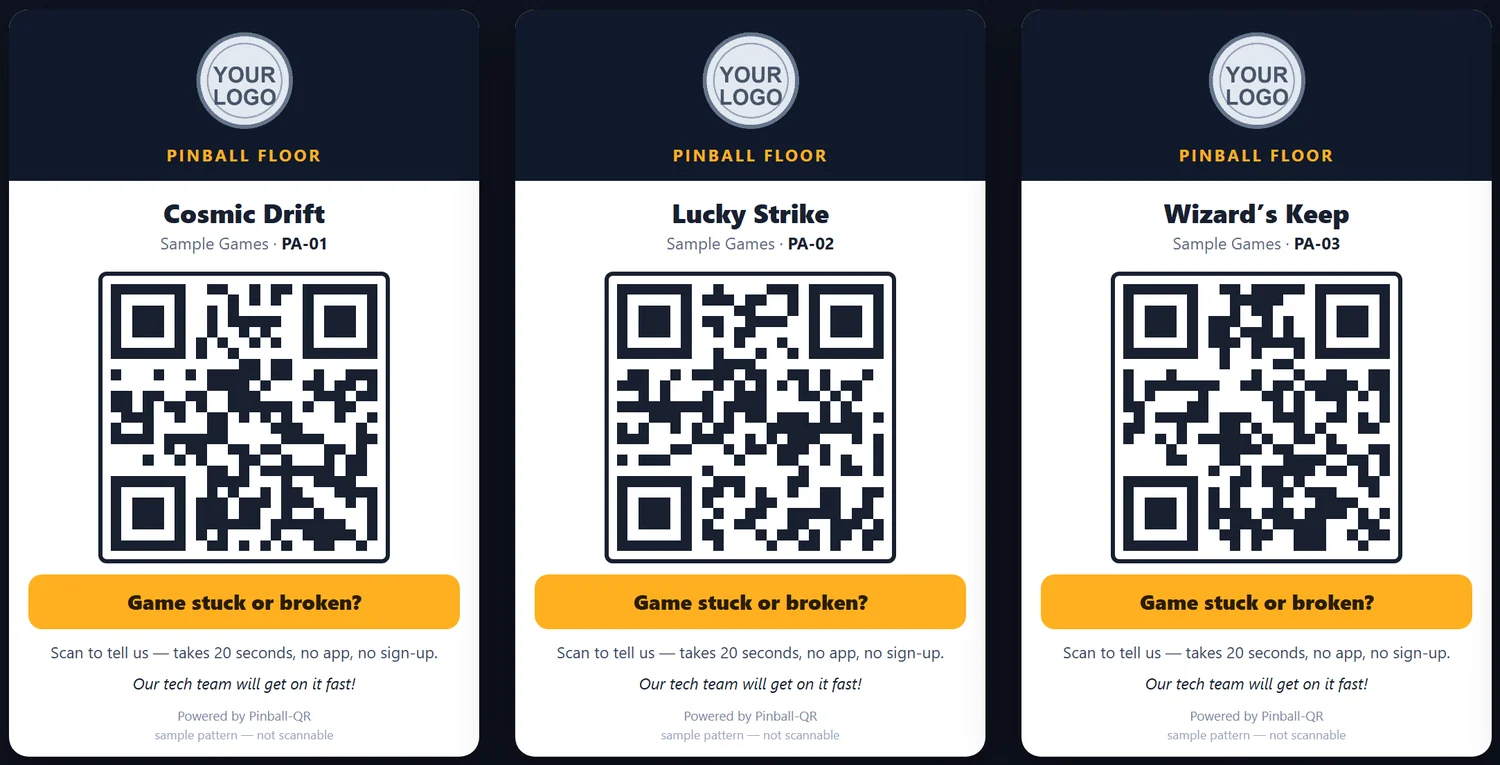
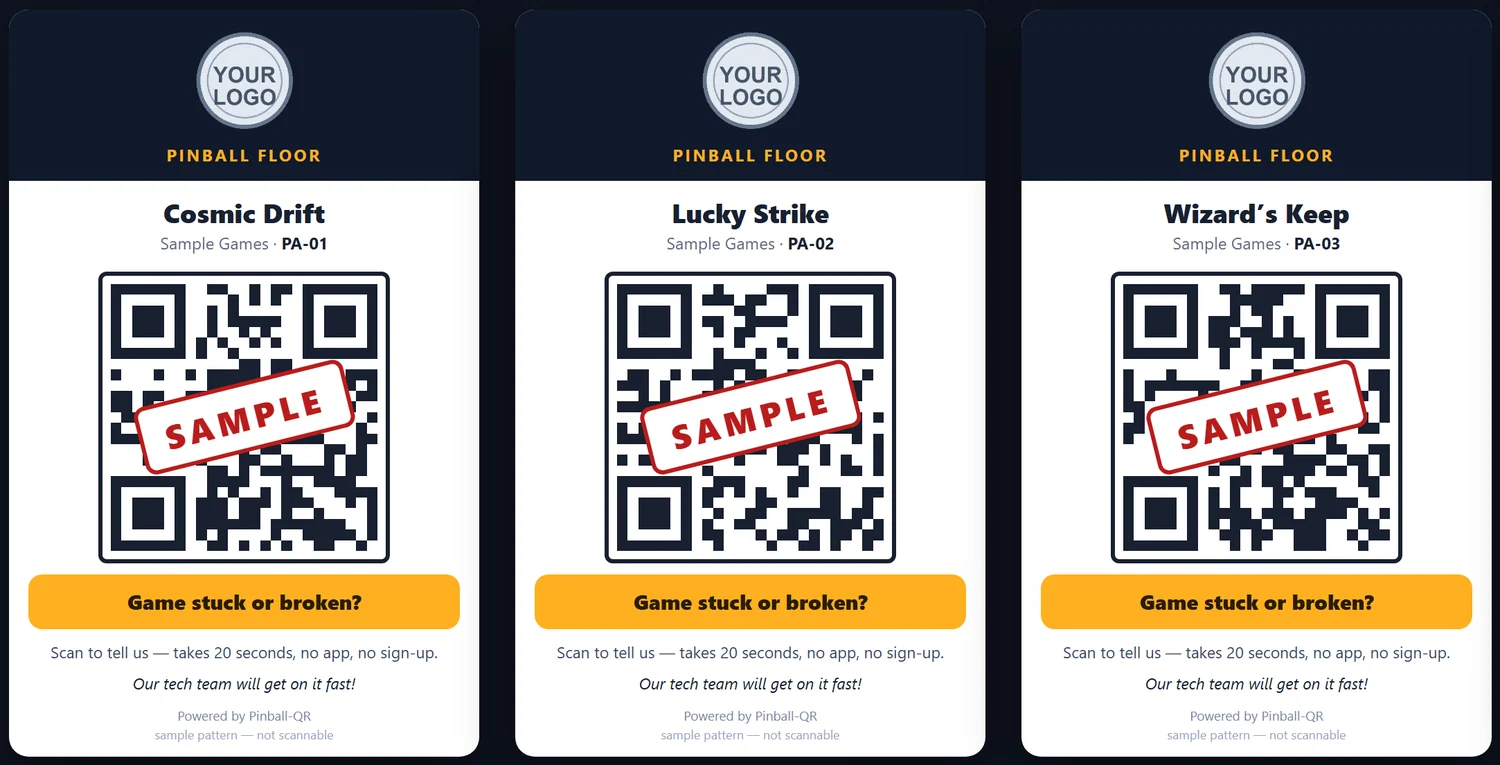
v2.41.3: Pinball-QR page: pictures moved up, page tightened, sample QR codes stamped
Pictures (dashboard, ticket page, card, promotions) now sit directly under the numbers instead of
near the bottom. Eight content sections became six: "Who it's for" and "Benefits" removed (they
repeated the problem cards and the steps) and folded into a four-step "How it works".
The sample QR codes on the card picture carry a red SAMPLE stamp; a QR decoder reads nothing from
the published image (a control code decodes). Unused report/status images removed.
Not pushed.

Changed region(s): [[0.7667, 0.451, 0.92, 0.6314], [0.4293, 0.451, 0.5827, 0.6314], [0.092, 0.451, 0.2453, 0.6314]]

diff --git a/pinball-qr.html b/pinball-qr.html
@@ -126,7 +126,7 @@
   </header>
 
   <main class="pp-main">
-    <nav class="pp-subnav" aria-label="Pinball-QR page sections"><div class="container pp-subnav-in"><div class="pp-sw"><button class="pp-sw-btn" type="button" aria-expanded="false" aria-controls="pp-sw-menu" aria-label="Switch product (current: Pinball-QR)"><img src="/images/products/pinball-qr-icon.svg" alt="" width="28" height="28"><span>Pinball-QR</span><svg class="pp-sw-chev" viewBox="0 0 12 12" fill="none" stroke="currentColor" stroke-width="1.8" aria-hidden="true"><path d="m3 4.5 3 3 3-3"/></svg></button><div class="pp-sw-menu" id="pp-sw-menu"><a href="/concreteiq.html"><img src="/images/products/concreteiq-icon.png" alt="" width="28" height="28"><span>ConcreteIQ</span><span class="sh-st live">Live beta</span></a><a href="/brickture.html"><img src="/images/products/brickture-icon.png" alt="" width="28" height="28"><span>Brickture</span><span class="sh-st beta">Beta</span></a><a href="/hoof-harted.html"><img src="/images/products/hoof-harted-icon.png" alt="" width="28" height="28"><span>Hoof Harted</span><span class="sh-st live">Live</span></a><a href="/true-record.html"><img src="/images/products/true-record-icon.png" alt="" width="28" height="28"><span>True Record</span><span class="sh-st live">Live</span></a><a href="/ann-elise.html"><img src="/images/products/ann-elise-icon.png" alt="" width="28" height="28"><span>Ann Elise</span><span class="sh-st live">Live</span></a><a href="/pinball-qr.html" aria-current="page"><img src="/images/products/pinball-qr-icon.svg" alt="" width="28" height="28"><span>Pinball-QR</span><span class="sh-st live">Live beta</span></a><a href="/meta-ray-ban-display.html"><span class="pp-sw-glyph" aria-hidden="true"><svg viewBox="0 0 220 90" fill="none" stroke="#e2e8f0" stroke-width="12"><rect x="20" y="24" width="76" height="52" rx="18"/><rect x="124" y="24" width="76" height="52" rx="18"/></svg></span><span>Meta Ray-Ban Display</span><span class="sh-st next">Upcoming</span></a><a class="pp-sw-all" href="/products.html">All products &rarr;</a></div></div><div class="pp-subnav-links"><a href="#overview">Overview</a><a href="#problem">The problem</a><a href="#audience">Who it&rsquo;s for</a><a href="#how">How it works</a><a href="#screens">See it</a><a href="#roadmap">Roadmap</a><a href="#proof">Proof</a></div><a class="pp-subnav-cta" href="/contact.html?topic=build#contact-form">Talk to us &rarr;</a></div></nav>
+    <nav class="pp-subnav" aria-label="Pinball-QR page sections"><div class="container pp-subnav-in"><div class="pp-sw"><button class="pp-sw-btn" type="button" aria-expanded="false" aria-controls="pp-sw-menu" aria-label="Switch product (current: Pinball-QR)"><img src="/images/products/pinball-qr-icon.svg" alt="" width="28" height="28"><span>Pinball-QR</span><svg class="pp-sw-chev" viewBox="0 0 12 12" fill="none" stroke="currentColor" stroke-width="1.8" aria-hidden="true"><path d="m3 4.5 3 3 3-3"/></svg></button><div class="pp-sw-menu" id="pp-sw-menu"><a href="/concreteiq.html"><img src="/images/products/concreteiq-icon.png" alt="" width="28" height="28"><span>ConcreteIQ</span><span class="sh-st live">Live beta</span></a><a href="/brickture.html"><img src="/images/products/brickture-icon.png" alt="" width="28" height="28"><span>Brickture</span><span class="sh-st beta">Beta</span></a><a href="/hoof-harted.html"><img src="/images/products/hoof-harted-icon.png" alt="" width="28" height="28"><span>Hoof Harted</span><span class="sh-st live">Live</span></a><a href="/true-record.html"><img src="/images/products/true-record-icon.png" alt="" width="28" height="28"><span>True Record</span><span class="sh-st live">Live</span></a><a href="/ann-elise.html"><img src="/images/products/ann-elise-icon.png" alt="" width="28" height="28"><span>Ann Elise</span><span class="sh-st live">Live</span></a><a href="/pinball-qr.html" aria-current="page"><img src="/images/products/pinball-qr-icon.svg" alt="" width="28" height="28"><span>Pinball-QR</span><span class="sh-st live">Live beta</span></a><a href="/meta-ray-ban-display.html"><span class="pp-sw-glyph" aria-hidden="true"><svg viewBox="0 0 220 90" fill="none" stroke="#e2e8f0" stroke-width="12"><rect x="20" y="24" width="76" height="52" rx="18"/><rect x="124" y="24" width="76" height="52" rx="18"/></svg></span><span>Meta Ray-Ban Display</span><span class="sh-st next">Upcoming</span></a><a class="pp-sw-all" href="/products.html">All products &rarr;</a></div></div><div class="pp-subnav-links"><a href="#overview">Overview</a><a href="#screens">See it</a><a href="#problem">The problem</a><a href="#how">How it works</a><a href="#roadmap">Roadmap</a><a href="#proof">Proof</a></div><a class="pp-subnav-cta" href="/contact.html?topic=build#contact-form">Talk to us &rarr;</a></div></nav>
     <section class="pp-hero" id="overview">
       <div class="container pp-hero-grid">
         <div>
@@ -134,9 +134,9 @@
           <div class="pp-id"><img class="pp-icon" src="/images/products/pinball-qr-icon.svg" alt="Pinball-QR icon" width="256" height="256"><span class="status-pill is-live">Live beta &middot; Phase 1</span><a class="pp-ind pp-ind-ent" href="/industries.html#entertainment">Entertainment</a></div>
           <h1>A machine breaks. One scan tells the venue.</h1>
           <p class="pp-tagline">QR-code problem reporting for pinball and arcade venues.</p>
-          <p class="pp-lead">Put a QR card on each machine. A player scans it, taps what&rsquo;s wrong, and the venue gets an email with a one-tap Mark fixed link. No app. No account. When it&rsquo;s fixed, the player who reported it can be told.</p>
+          <p class="pp-lead">Put a QR card on each machine. A player scans it, taps what&rsquo;s wrong, and the venue gets an email with a one-tap Mark fixed link. No app. No account.</p>
           <div class="btn-group"><a href="/contact.html?topic=build#contact-form" class="btn btn-primary btn-lg">Talk to us about your venue &rarr;</a><a href="#roadmap" class="btn btn-ghost btn-lg">Where it&rsquo;s headed &darr;</a></div>
-          <p class="pp-note">Built for pinball and arcade venues throughout the US. Live beta since October 9, 2026. Phase 1 of three.</p>
+          <p class="pp-note">Built for pinball and arcade venues throughout the US. Live beta since October 9, 2026.</p>
         </div>
         <div class="pp-visual"><img class="pp-phone" src="/images/products/pinball-qr-hero-report.webp" alt="The Pinball-QR player report screen with six problem choices" width="560" height="1005"><img class="pp-phone" src="/images/products/pinball-qr-hero-status.webp" alt="The Pinball-QR public status page listing which machines are working" width="560" height="1005"></div>
       </div>
@@ -144,49 +144,27 @@
 
     <div class="container"><div class="pp-stats reveal"><div><b>57</b><span>Problem reports from players since the beta went live on October 9</span></div><div><b>54 of 57</b><span>Fixed. The other 3 are waiting on parts</span></div><div><b>~2 hrs</b><span>A typical repair, with the system in place</span></div><div><b>24</b><span>Machines with QR cards, up from 7 on day one</span></div></div></div>
 
-    <section class="pp-sec" id="problem">
+    <section class="pp-sec" id="screens">
+      <div class="container">
+        <p class="pp-sub pq-sub"><span class="pp-kicker">See it</span> Design mockups with sample content: the venue, machines, people and numbers are made up. Phase 1 is live today; the dashboard and promotions are designs for Phases 2 and 3, which are in progress.</p>
+        <div class="pq-gallery pq-bento"><figure class="reveal pq-dash"><img src="/images/products/pinball-qr-dashboard.webp" alt="The staff dashboard: what needs attention now, in-progress tickets and a tile for every machine" width="1500" height="971" loading="lazy"><figcaption><b>The staff dashboard <span class="status-pill is-dev">Phase 2 &middot; in progress</span></b>What needs attention now, who has picked it up, and which machines are fine.</figcaption></figure><figure class="reveal pq-tick"><img src="/images/products/pinball-qr-ticket.webp" alt="The player's report page with a progress timeline" width="640" height="1243" loading="lazy"><figcaption><b>Follow the report <span class="status-pill is-live">Phase 1</span></b>A player can check on a report from a link. The technician steps shown are part of Phase 2.</figcaption></figure><figure class="reveal pq-card"><img src="/images/products/pinball-qr-card.webp" alt="Three coin-door cards, each with a sample QR code stamped SAMPLE, the machine name and a Game stuck or broken prompt" width="1500" height="765" loading="lazy"><figcaption><b>A card on every machine <span class="status-pill is-live">Phase 1</span></b>The venue&rsquo;s logo, the machine&rsquo;s name and a QR code. The codes shown are samples and do not scan.</figcaption></figure><figure class="reveal pq-promo"><img src="/images/products/pinball-qr-promotions.webp" alt="The promotions editor with a phone preview of an offer shown after a report" width="1500" height="845" loading="lazy"><figcaption><b>The venue&rsquo;s own promotions <span class="status-pill is-dev">Phase 3 &middot; in progress</span></b>Offers the venue sets, shown after a report. Never in the report form; no outside ads.</figcaption></figure></div>
+      </div>
+    </section>
+
+    <section class="pp-sec alt" id="problem">
       <div class="container">
         <span class="pp-kicker">The problem</span>
         <h2>Pinball machines break quietly</h2>
-        <p class="pp-sub">Pinball machines are hard to diagnose by looking, which makes communicating a problem a big one for the industry.</p>
-        <div class="pp-grid c3"><div class="pp-card tile reveal"><div class="pp-ico"><svg viewBox="0 0 24 24" fill="none" stroke="currentColor" stroke-width="2" stroke-linecap="round" stroke-linejoin="round"><path d="M2 12s4-7 10-7 10 7 10 7-4 7-10 7S2 12 2 12z"/><circle cx="12" cy="12" r="3"/><path d="M3 3l18 18"/></svg></div><h3>It isn&rsquo;t obvious</h3><p>You often can&rsquo;t tell a pop-up target is dead by looking at the machine. You find out by playing, which can take hours, or when someone who knows pinball tells you.</p></div><div class="pp-card tile reveal"><div class="pp-ico"><svg viewBox="0 0 24 24" fill="none" stroke="currentColor" stroke-width="2" stroke-linecap="round" stroke-linejoin="round"><circle cx="12" cy="8" r="4"/><path d="M4 21c1-4 4-6 8-6s7 2 8 6"/></svg></div><h3>Most players can&rsquo;t tell</h3><p>Many players are casual. They may not realise a machine has a problem at all, and the ones who do have no standard way to say so.</p></div><div class="pp-card tile reveal"><div class="pp-ico"><svg viewBox="0 0 24 24" fill="none" stroke="currentColor" stroke-width="2" stroke-linecap="round" stroke-linejoin="round"><circle cx="12" cy="12" r="9"/><path d="M12 7v5l3 2"/></svg></div><h3>News travels slowly</h3><p>At the venue where we started, customers had no standard way to report a problem. Reports came in however they could, and it could take weeks or even months for the right person to find out.</p></div></div>
+        <p class="pp-sub">Pinball machines are hard to diagnose by looking, so communicating a problem is a big one for the industry. Pinball-QR is built for the owners, technicians and floor staff who fix machines, and the players who find the problems.</p>
+        <div class="pp-grid c3"><div class="pp-card tile reveal"><div class="pp-ico"><svg viewBox="0 0 24 24" fill="none" stroke="currentColor" stroke-width="2" stroke-linecap="round" stroke-linejoin="round"><path d="M2 12s4-7 10-7 10 7 10 7-4 7-10 7S2 12 2 12z"/><circle cx="12" cy="12" r="3"/><path d="M3 3l18 18"/></svg></div><h3>It isn&rsquo;t obvious</h3><p>You often can&rsquo;t tell a pop-up target is dead by looking. You find out by playing, which can take hours, or when someone who knows pinball tells you.</p></div><div class="pp-card tile reveal"><div class="pp-ico"><svg viewBox="0 0 24 24" fill="none" stroke="currentColor" stroke-width="2" stroke-linecap="round" stroke-linejoin="round"><circle cx="12" cy="8" r="4"/><path d="M4 21c1-4 4-6 8-6s7 2 8 6"/></svg></div><h3>Most players can&rsquo;t tell</h3><p>Many players are casual and may not realise a machine has a problem. The ones who do have no standard way to say so.</p></div><div class="pp-card tile reveal"><div class="pp-ico"><svg viewBox="0 0 24 24" fill="none" stroke="currentColor" stroke-width="2" stroke-linecap="round" stroke-linejoin="round"><circle cx="12" cy="12" r="9"/><path d="M12 7v5l3 2"/></svg></div><h3>News travels slowly</h3><p>At the venue where we started, there was no standard way to report a problem, and it could take weeks or even months for the right person to find out.</p></div></div>
       </div>
     </section>
 
-    <section class="pp-sec alt" id="audience">
-      <div class="container">
-        <span class="pp-kicker">Who it&rsquo;s for</span>
-        <h2>For venues with more machines than hours in the day</h2>
-        <p class="pp-sub">Built with a working pinball and arcade venue, for the people who run the floor and the people who play on it.</p>
-        <div class="pp-grid c3"><div class="pp-card pp-persona tile reveal"><div class="pp-who">The owner</div><h3>Venue owners and operators</h3><p>Know which machines are down without walking the floor, and who is on it.</p><div class="pp-pain"><b>Pain:</b> Hearing about a broken machine only when a customer mentions it.</div></div><div class="pp-card pp-persona tile reveal"><div class="pp-who">The tech</div><h3>Technicians and floor staff</h3><p>Each report names the machine and the problem, so the fix starts with the right information.</p><div class="pp-pain"><b>Pain:</b> Vague word of mouth: &ldquo;one of the machines is acting up.&rdquo;</div></div><div class="pp-card pp-persona tile reveal"><div class="pp-who">The player</div><h3>Players</h3><p>Report it on the spot from a phone, then find out when it&rsquo;s fixed.</p><div class="pp-pain"><b>Pain:</b> Walking to the counter to explain, or giving up and moving on.</div></div></div>
-      </div>
-    </section>
-
-    <section class="pp-sec" id="benefits">
-      <div class="container">
-        <span class="pp-kicker">Benefits</span>
-        <h2>The report reaches the right person, with the right details</h2>
-        <p class="pp-sub">Everything in Phase 1 is live today.</p>
-        <div class="pp-grid c3"><div class="pp-card tile reveal"><div class="pp-ico"><svg viewBox="0 0 24 24" fill="none" stroke="currentColor" stroke-width="2" stroke-linecap="round" stroke-linejoin="round"><rect x="7" y="2" width="10" height="20" rx="2"/><path d="M11 18h2"/></svg></div><h3>No app, no account</h3><p>A player scans the card with their phone camera. There is nothing to install and nothing to sign up for.</p></div><div class="pp-card tile reveal"><div class="pp-ico"><svg viewBox="0 0 24 24" fill="none" stroke="currentColor" stroke-width="2" stroke-linecap="round" stroke-linejoin="round"><rect x="3" y="3" width="7" height="7" rx="1"/><rect x="14" y="3" width="7" height="7" rx="1"/><rect x="3" y="14" width="7" height="7" rx="1"/><rect x="14" y="14" width="7" height="7" rx="1"/></svg></div><h3>Six one-tap problems</h3><p>Ball stuck, Flipper, Won&rsquo;t start, Coin / credit, Display or Other, with an optional note and photo.</p></div><div class="pp-card tile reveal"><div class="pp-ico"><svg viewBox="0 0 24 24" fill="none" stroke="currentColor" stroke-width="2" stroke-linecap="round" stroke-linejoin="round"><rect x="3" y="5" width="18" height="14" rx="2"/><path d="m3 7 9 6 9-6"/></svg></div><h3>The venue is emailed</h3><p>Every report emails the venue, with the machine and the problem in the subject line, like &ldquo;[PA-01] Machine name: Coin / credit&rdquo;.</p></div><div class="pp-card tile reveal"><div class="pp-ico"><svg viewBox="0 0 24 24" fill="none" stroke="currentColor" stroke-width="2" stroke-linecap="round" stroke-linejoin="round"><circle cx="12" cy="12" r="9"/><path d="m8 12 3 3 5-6"/></svg></div><h3>One-tap Mark fixed</h3><p>The email carries a Mark fixed link, with a 5-minute Undo for a mis-tap. A player who left their email is told it&rsquo;s fixed.</p></div><div class="pp-card tile reveal"><div class="pp-ico"><svg viewBox="0 0 24 24" fill="none" stroke="currentColor" stroke-width="2" stroke-linecap="round" stroke-linejoin="round"><path d="M6 8a6 6 0 0 1 12 0c0 7 3 8 3 8H3s3-1 3-8"/><path d="M10 21a2 2 0 0 0 4 0"/></svg></div><h3>Quiet when it should be</h3><p>A problem that keeps being reported produces at most one &ldquo;Still being reported&rdquo; email a day.</p></div><div class="pp-card tile reveal"><div class="pp-ico"><svg viewBox="0 0 24 24" fill="none" stroke="currentColor" stroke-width="2" stroke-linecap="round" stroke-linejoin="round"><path d="M3 12h4l3-8 4 16 3-8h4"/></svg></div><h3>A public status board</h3><p>Anyone can see which of the venue&rsquo;s machines are working, on a status page the venue shares.</p></div></div>
-      </div>
-    </section>
-
-    <section class="pp-sec alt" id="how">
+    <section class="pp-sec" id="how">
       <div class="container">
         <span class="pp-kicker">How it works</span>
-        <h2>Three steps from broken to fixed</h2>
-        <ol class="pp-steps s3 reveal"><li><b>Scan the card</b>The player points their phone camera at the QR card on the machine. No app and no account.</li><li><b>Tap what&rsquo;s wrong</b>One of six choices, plus an optional note, photo and email address.</li><li><b>Mark it fixed</b>The venue gets an email and taps Mark fixed when the repair is done. A player who left their email is told.</li></ol>
-      </div>
-    </section>
-
-    <section class="pp-sec" id="screens">
-      <div class="container">
-        <span class="pp-kicker">See it</span>
         <h2>From a scan to a fixed machine</h2>
-        <p class="pp-sub">Design mockups with sample content: the venue, machines, people and numbers shown are made up. Phase 1 is live today. The staff dashboard and promotions are designs for Phases 2 and 3, which are in progress.</p>
-        <div class="pq-gallery three pq-phones"><figure class="reveal"><img src="/images/products/pinball-qr-report.webp" alt="The player report screen: six problem choices and a Send report button" width="640" height="1243" loading="lazy"><figcaption><b>Tap what&rsquo;s wrong <span class="status-pill is-live">Phase 1</span></b>A player scans the card and picks one of six problems, with an optional note, photo and email. No app, no account.</figcaption></figure><figure class="reveal"><img src="/images/products/pinball-qr-ticket.webp" alt="The player's report page with a progress timeline" width="640" height="1243" loading="lazy"><figcaption><b>Follow the report <span class="status-pill is-live">Phase 1</span></b>The player can check on a report from a link. The technician steps shown here are part of Phase 2.</figcaption></figure><figure class="reveal"><img src="/images/products/pinball-qr-status.webp" alt="The public status page listing which machines are working, reported or out of order" width="640" height="1243" loading="lazy"><figcaption><b>See what&rsquo;s working <span class="status-pill is-live">Phase 1</span></b>A public status page shows which of the venue&rsquo;s machines are working, reported or out of order.</figcaption></figure></div>
-        <div class="pq-gallery one"><figure class="reveal"><img src="/images/products/pinball-qr-dashboard.webp" alt="The staff dashboard: what needs attention now, in-progress tickets and a tile for every machine" width="1500" height="971" loading="lazy"><figcaption><b>The staff dashboard <span class="status-pill is-dev">Phase 2 &middot; in progress</span></b>What needs attention now, who has picked it up, and which machines are fine. Sample data.</figcaption></figure></div>
-        <div class="pq-gallery two"><figure class="reveal"><img src="/images/products/pinball-qr-card.webp" alt="Three coin-door cards, each with a QR code, the machine name and a Game stuck or broken prompt" width="1500" height="765" loading="lazy"><figcaption><b>A card on every machine <span class="status-pill is-live">Phase 1</span></b>One card per machine, with the venue&rsquo;s logo, the machine&rsquo;s name and a QR code. The QR patterns shown are decorative samples.</figcaption></figure><figure class="reveal"><img src="/images/products/pinball-qr-promotions.webp" alt="The promotions editor with a live phone preview of an offer shown after a report" width="1500" height="845" loading="lazy"><figcaption><b>The venue&rsquo;s own promotions <span class="status-pill is-dev">Phase 3 &middot; in progress</span></b>Offers the venue sets, shown after a report. Never inside the report form, and no outside ads. Sample content.</figcaption></figure></div>
+        <ol class="pp-steps s4 reveal"><li><b>Scan the card</b>A player scans the QR card on the machine. No app, no account.</li><li><b>Tap what&rsquo;s wrong</b>One of six choices: Ball stuck, Flipper, Won&rsquo;t start, Coin / credit, Display or Other, with an optional note, photo and email.</li><li><b>The venue is emailed</b>The machine and the problem are in the subject line. A problem that keeps being reported gets at most one &ldquo;Still being reported&rdquo; email a day.</li><li><b>Mark it fixed</b>One tap in the email, with a 5-minute Undo. A player who left an email is told, and anyone can see which machines are working on a public status page.</li></ol>
       </div>
     </section>
 
@@ -194,7 +172,7 @@
       <div class="container">
         <span class="pp-kicker">Where it&rsquo;s headed</span>
         <h2>Live today, with two more phases in progress</h2>
-        <p class="pp-sub">Phase 1 is in use now. Phases 2 and 3 are in progress and not yet released, and may change as the venue tells us what it needs.</p>
+        <p class="pp-sub">Phases 2 and 3 are in progress and not yet released, and may change as the venue tells us what it needs.</p>
         <div class="pq-road"><div class="pp-card tile reveal pq-ph"><div class="pq-phase">Phase 1 <span class="status-pill is-live">Live beta</span></div><h3>QR cards and the player report</h3><ul><li>QR cards on the machines</li><li>Player report: one tap, an optional note, photo and email</li><li>Email to the venue with a one-tap Mark fixed link</li><li>A public status board</li></ul></div><div class="pp-card tile reveal pq-ph"><div class="pq-phase">Phase 2 <span class="status-pill is-dev">In progress</span></div><h3>Staff tools</h3><ul><li>A phone dashboard for owners, managers, techs and floor staff</li><li>Invite-only accounts: sign in by email link, password, Google or Apple</li><li>Steps like &ldquo;I&rsquo;ve got it&rdquo;, &ldquo;Need a part&rdquo; and &ldquo;Fixed&rdquo;, and an out-of-order flag</li><li>Automatic escalation: a backup after 15 minutes, a manager after an hour</li><li>Phone notifications, and the venue&rsquo;s logo inside the QR codes</li></ul></div><div class="pp-card tile reveal pq-ph"><div class="pq-phase">Phase 3 <span class="status-pill is-dev">In progress</span></div><h3>Promotions</h3><ul><li>The venue&rsquo;s own offers, like happy hour or events, shown after a report or on the status pages</li><li>Never inside the report form or in emails, and no outside ads</li><li>Optional make-up credit codes for players who lost credits, only if the venue wants them</li></ul></div></div>
       </div>
     </section>

diff --git a/css/styles.css b/css/styles.css
@@ -3406,3 +3406,16 @@ section[id], article[id] { scroll-margin-top: 72px; }
 .pq-gallery figcaption { font-size: .86rem; color: var(--color-text-secondary); margin-top: 12px; line-height: 1.5; }
 .pq-gallery figcaption b { display: block; color: var(--color-text); font-size: .98rem; margin-bottom: 4px; }
 .pq-gallery .status-pill { margin-left: 6px; vertical-align: 2px; }
+/* Pinball-QR v2.41.3: the pictures sit right under the numbers (a bento grid), and spacing is tighter than the other product pages. */
+.pq-bento { grid-template-columns: 1fr; margin-top: 14px; }
+@media (min-width: 900px) {
+  .pq-bento { grid-template-columns: repeat(3, 1fr); }
+  .pq-bento .pq-dash { grid-column: 1 / 3; }
+  .pq-bento .pq-tick { grid-column: 3; grid-row: 1 / 3; }
+  .pq-bento .pq-card { grid-column: 1; }
+  .pq-bento .pq-promo { grid-column: 2; }
+}
+.pq-sub { margin: 0 0 4px; }
+.pq-sub .pp-kicker { margin-right: 8px; }
+.pp-qr .pp-sec { padding: 28px 0; }
+.pp-qr #screens { padding: 22px 0 14px; }
